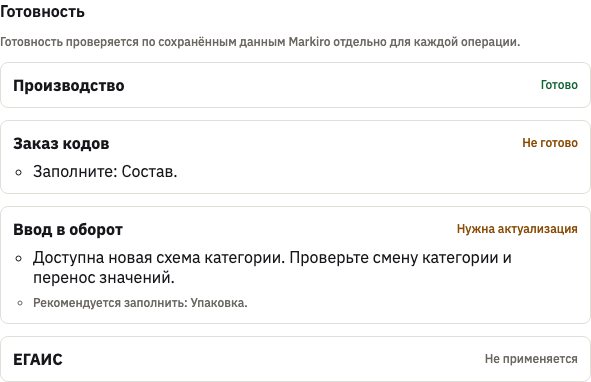
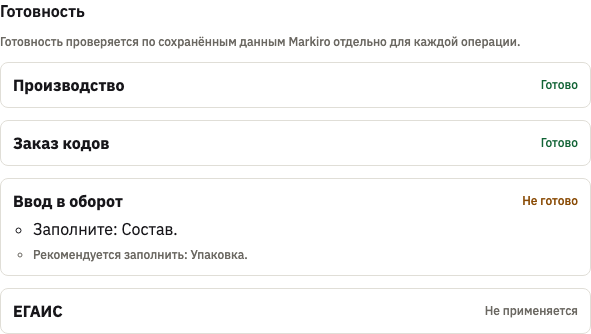
fix(legal): make the readiness frame match what the product can return
The MKR-INS-10 readiness fixture was written against the document's text
rather than against `evaluateProductReadiness`, and depicted a panel the
cabinet cannot render: `code_ordering: not_ready` beside `circulation:
stale` (both regulatory dimensions branch on the single shared
`input.schemaStale`), a recommendation on a `stale` dimension (that branch
returns none), and an `ATTRIBUTE_REQUIRED` for `composition` under code
ordering (`activeRequirementRules` filters strictly by layer, and
composition's only rule is `circulation`).

The reader-facing damage was worse than the schema violation: the frame told
a manager that circulation attributes block code ordering, while the
attributes frame one page later showed the same attribute under "mandatory
for circulation" and the one code-ordering attribute filled in.

The fixture now reproduces the evaluator's output for the attribute data
already on the attributes frame: production and code ordering ready,
circulation not ready on the empty mandatory `composition` with the empty
recommended `package` beneath it, EGAIS not applicable. Both captions now
describe that frame, and the readiness test asserts each dimension's own
state instead of "some element says Ready".

diff --git a/packages/legal-documents/src/documents/cabinet-catalog-product.ts b/packages/legal-documents/src/documents/cabinet-catalog-product.ts
@@ -121,7 +121,7 @@ export const CABINET_CATALOG_PRODUCT_CONTENT = {
           {
             kind: "step",
             title: "Сохраните карточку",
-            text: "Нажмите «Сохранить». Остальные поля раздела «Агрегация и цена» — «Цена за шт., ₽», «Срок годности, дней», а у части товарных групп ЕГАИС ещё и «Код ЕГАИС» (см. раздел 6), — необязательны и на статус не влияют. У сохранённой карточки над полями появляются две вкладки — «Основное» и «Честный знак»: готовность, категория и характеристики живут на второй (разделы 5 и 6).",
+            text: "Нажмите «Сохранить». Остальные поля раздела «Агрегация и цена» — «Цена за шт., ₽», «Срок годности, дней», а у товарной группы, продукция которой учитывается в ЕГАИС, ещё и «Код ЕГАИС» (см. раздел 6), — необязательны и на статус не влияют. У сохранённой карточки над полями появляются две вкладки — «Основное» и «Честный знак»: готовность, категория и характеристики живут на второй (разделы 5 и 6).",
             image: {
               id: "product-active",
               caption: "Заполненная карточка: группа и обе вместимости на месте",
@@ -155,7 +155,8 @@ export const CABINET_CATALOG_PRODUCT_CONTENT = {
             text: "Блок «Готовность» показывает четыре измерения — «Производство», «Заказ кодов», «Ввод в оборот» и «ЕГАИС» — и состояние каждого: «Готово», «Не готово», «Нужна актуализация» или «Не применяется». Под измерением перечислено, чего не хватает; бледные строки ниже — рекомендации: они операцию не блокируют. «Не применяется» означает, что операция к этой товарной группе не относится — так подписан «ЕГАИС» у безалкогольного товара.",
             image: {
               id: "product-readiness",
-              caption: "Готовность по операциям: производство готово, заказ кодов — нет",
+              caption:
+                "Готовность по операциям: производство и заказ кодов готовы, ввод в оборот ждёт характеристику",
             },
             expected: "Видно, какая операция уже доступна, а какая ждёт данных.",
           },
@@ -212,7 +213,7 @@ export const CABINET_CATALOG_PRODUCT_CONTENT = {
           {
             kind: "callout",
             tone: "info",
-            text: "Если в форме есть несохранённые правки «ГТИН» или «Группа продукции», кабинет блокирует эти блоки и показывает подсказку «Сначала сохраните основные данные товара, затем изменяйте категорию и характеристики.».",
+            text: "Если в форме есть несохранённые правки «ГТИН» или «Группа продукции», кабинет блокирует эти блоки и показывает подсказку «Сначала сохраните основные данные товара, затем изменяйте категорию и характеристики.». Замок работает и в обратную сторону: пока в блоке категории, характеристик или кодов ЕГАИС остались несохранённые правки, кабинет показывает «Сначала сохраните или отмените правки категории и характеристик.», поля вкладки «Основное» заблокированы, а кнопка «Сохранить» недоступна. Отдельная кнопка у каждого блока не делает блоки независимыми: незакрытая правка в одном из них останавливает работу в другом.",
           },
           {
             kind: "step",
@@ -557,7 +558,7 @@ export const CABINET_CATALOG_PRODUCT_CONTENT = {
           {
             kind: "step",
             title: "Save the card",
-            text: "Press “Save”. The remaining fields of “Aggregation and price” — “Price per unit, ₽”, “Shelf life, days”, and for some EGAIS product groups also “EGAIS code” (see section 6) — are optional and do not affect the status. A saved card gains two tabs above the fields, “Basic” and “Chestny ZNAK”: readiness, the category and the attributes live on the second one (sections 5 and 6).",
+            text: "Press “Save”. The remaining fields of “Aggregation and price” — “Price per unit, ₽”, “Shelf life, days”, and for the product group whose goods are tracked in EGAIS also “EGAIS code” (see section 6) — are optional and do not affect the status. A saved card gains two tabs above the fields, “Basic” and “Chestny ZNAK”: readiness, the category and the attributes live on the second one (sections 5 and 6).",
             image: {
               id: "product-active",
               caption: "A complete card: the group and both capacities are in place",
@@ -591,7 +592,8 @@ export const CABINET_CATALOG_PRODUCT_CONTENT = {
             text: "The “Readiness” block shows four dimensions — “Production”, “Code ordering”, “Putting into circulation” and “EGAIS” — and the state of each: “Ready”, “Not ready”, “Update required” or “Not applicable”. Under a dimension the cabinet lists what is missing; the paler lines below are recommendations and do not block the operation. “Not applicable” means the operation does not concern this product group — that is how “EGAIS” is marked for a non-alcoholic product.",
             image: {
               id: "product-readiness",
-              caption: "Readiness per operation: production is ready, code ordering is not",
+              caption:
+                "Readiness per operation: production and code ordering are ready, putting into circulation waits for an attribute",
             },
             expected:
               "It is visible which operation is already available and which waits for data.",
@@ -649,7 +651,7 @@ export const CABINET_CATALOG_PRODUCT_CONTENT = {
           {
             kind: "callout",
             tone: "info",
-            text: "While the form holds unsaved edits to “GTIN” or “Product group”, the cabinet locks these blocks and shows the hint “Save the main product details before editing its category and attributes.”.",
+            text: "While the form holds unsaved edits to “GTIN” or “Product group”, the cabinet locks these blocks and shows the hint “Save the main product details before editing its category and attributes.”. The lock works the other way round too: while the category, the attributes or the EGAIS codes hold unsaved edits, the cabinet shows “Save or discard category and attribute edits first.”, the fields of the “Basic” tab stay locked and the card's “Save” button is unavailable. A button of its own per block does not make the blocks independent: an unfinished edit in one of them stops the work in another.",
           },
           {
             kind: "step",

diff --git a/tools/production-browser/tests/catalog.visual.spec.ts b/tools/production-browser/tests/catalog.visual.spec.ts
@@ -386,10 +386,27 @@ function fixtures(locale: AdminLocale) {
   };
 
   /**
-   * One dimension per state the panel can show, so the frame carries the whole
-   * vocabulary the document defines: production is ready, code ordering is
-   * blocked by a missing attribute, circulation needs a re-check after a new
-   * schema, EGAIS does not apply to this product group.
+   * What `evaluateProductReadiness` actually returns for the attribute data
+   * above (`packages/domain/src/product-attributes/readiness.ts`; for a
+   * product that has a profile, `readiness.service.ts` returns its output
+   * unchanged): production carries the group and both capacities, code
+   * ordering is ready because `volume` -- its only mandatory attribute -- has
+   * a value, circulation is blocked by the empty mandatory `composition` and
+   * carries the empty recommended `package` beneath it, and EGAIS does not
+   * apply to product group 23.
+   *
+   * Three of the four states is the most one frame can carry, so do not add a
+   * fourth: `stale` can only come from a regulatory dimension,
+   * `evaluateRegulatoryDimension` branches on the single shared
+   * `input.schemaStale`, so code ordering and circulation are stale together
+   * or not at all, and neither `production` nor `egais` can ever be stale.
+   * That branch also returns no recommendations, and `activeRequirementRules`
+   * filters strictly by layer, so a `circulation` rule can never surface
+   * under `code_ordering`.
+   *
+   * `schemaVersionId` is what the evaluator stamps on every attribute reason;
+   * the panel does not print it, but omitting it would document a response
+   * shape the API never sends.
    */
   const READINESS = {
     productId: PRODUCT_ID,
@@ -402,15 +419,27 @@ function fixtures(locale: AdminLocale) {
       },
       {
         dimension: "code_ordering" as const,
-        state: "not_ready" as const,
-        reasons: [{ code: "ATTRIBUTE_REQUIRED", attributeId: "composition" }],
+        state: "ready" as const,
+        reasons: [],
         recommendations: [],
       },
       {
         dimension: "circulation" as const,
-        state: "stale" as const,
-        reasons: [{ code: "SCHEMA_VERSION_STALE" }],
-        recommendations: [{ code: "ATTRIBUTE_RECOMMENDED", attributeId: "package" }],
+        state: "not_ready" as const,
+        reasons: [
+          {
+            code: "ATTRIBUTE_REQUIRED",
+            attributeId: "composition",
+            schemaVersionId: "40000000-0000-4000-8000-000000000001",
+          },
+        ],
+        recommendations: [
+          {
+            code: "ATTRIBUTE_RECOMMENDED",
+            attributeId: "package",
+            schemaVersionId: "40000000-0000-4000-8000-000000000001",
+          },
+        ],
       },
       {
         dimension: "egais" as const,
@@ -674,11 +703,35 @@ for (const locale of LOCALES) {
     await expect(
       page.getByRole("heading", { name: t("pages.catalog.regulatory.readiness") }),
     ).toBeVisible();
+    // Assert every dimension's own state rather than "some element says
+    // Ready": the frame's whole job is which operation stands where, and a
+    // page-wide text assertion passes just as happily when two dimensions
+    // swap states.
+    const stateOf = (dimension: string) =>
+      page
+        .locator(".mk-readiness-list > li")
+        .filter({
+          has: page.getByText(t(`pages.catalog.regulatory.dimensions.${dimension}`), {
+            exact: true,
+          }),
+        })
+        .locator(".mk-readiness-state");
+    const states = "pages.catalog.regulatory.states.";
+    await expect(stateOf("production")).toHaveText(t(`${states}ready`));
+    await expect(stateOf("code_ordering")).toHaveText(t(`${states}ready`));
+    await expect(stateOf("circulation")).toHaveText(t(`${states}not_ready`));
+    await expect(stateOf("egais")).toHaveText(t(`${states}not_applicable`));
     await expect(
-      page.getByText(t("pages.catalog.regulatory.states.ready"), { exact: true }),
+      page.getByText(
+        t("pages.catalog.regulatory.reasons.ATTRIBUTE_REQUIRED", { field: copy.attrComposition }),
+        { exact: true },
+      ),
     ).toBeVisible();
     await expect(
-      page.getByText(t("pages.catalog.regulatory.states.not_applicable"), { exact: true }),
+      page.getByText(
+        t("pages.catalog.regulatory.reasons.ATTRIBUTE_RECOMMENDED", { field: copy.attrPackage }),
+        { exact: true },
+      ),
     ).toBeVisible();
     await screenshotSection(
       page,

diff --git a/docs/superpowers/plans/2026-09-19-mkr-ins-10-readiness.md b/docs/superpowers/plans/2026-09-19-mkr-ins-10-readiness.md
@@ -139,10 +139,11 @@ const REGULATORY_PROFILE = {
 };
 
 /**
- * One dimension per state the panel can show, so the frame carries the whole
- * vocabulary the document defines: production is ready, code ordering is
- * blocked by a missing attribute, circulation needs a re-check after a new
- * schema, EGAIS does not apply to this product group.
+ * What `evaluateProductReadiness` returns for the attribute data above.
+ * Three of the four states is the most one frame can carry: `stale` only
+ * comes from a regulatory dimension, both regulatory dimensions branch on the
+ * single shared `input.schemaStale`, and that branch returns no
+ * recommendations.
  */
 const READINESS = {
   productId: PRODUCT_ID,
@@ -150,15 +151,27 @@ const READINESS = {
     { dimension: "production" as const, state: "ready" as const, reasons: [], recommendations: [] },
     {
       dimension: "code_ordering" as const,
-      state: "not_ready" as const,
-      reasons: [{ code: "ATTRIBUTE_REQUIRED", attributeId: "composition" }],
+      state: "ready" as const,
+      reasons: [],
       recommendations: [],
     },
     {
       dimension: "circulation" as const,
-      state: "stale" as const,
-      reasons: [{ code: "SCHEMA_VERSION_STALE" }],
-      recommendations: [{ code: "ATTRIBUTE_RECOMMENDED", attributeId: "package" }],
+      state: "not_ready" as const,
+      reasons: [
+        {
+          code: "ATTRIBUTE_REQUIRED",
+          attributeId: "composition",
+          schemaVersionId: "40000000-0000-4000-8000-000000000001",
+        },
+      ],
+      recommendations: [
+        {
+          code: "ATTRIBUTE_RECOMMENDED",
+          attributeId: "package",
+          schemaVersionId: "40000000-0000-4000-8000-000000000001",
+        },
+      ],
     },
     {
       dimension: "egais" as const,
@@ -169,6 +182,14 @@ const READINESS = {
   ],
 };
 ```
+
+Первая редакция этой фикстуры была сверена с текстом документа, но не с
+`packages/domain/src/product-attributes/readiness.ts`, и описывала экран,
+который продукт выдать не может: два регулятивных измерения ветвятся по
+одному `input.schemaStale`, ветка `stale` не возвращает рекомендаций, а
+`activeRequirementRules` фильтрует правила строго по слою, поэтому правило
+`circulation` не может всплыть под «Заказом кодов». Любую фикстуру
+готовности сверять с вычислителем, а не с текстом.
 
 `productAttributeValueSchema` — дискриминированное по `type` объединение `.strict()`; вариант `decimal` это `{ type: "decimal", value: "<строка-число>", unit: string | null }`. Другие варианты: `string`, `string_list`, `boolean`, `date`, `enum`, `enum_list`.
 
